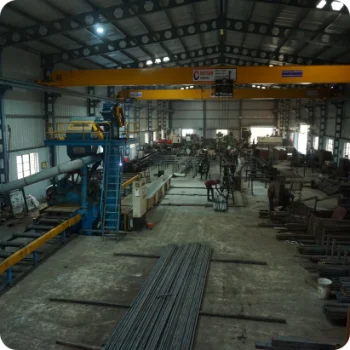
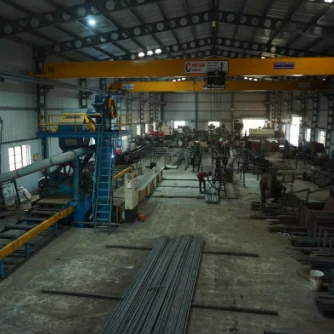
Redesign product cards with hover-reveal info, fix gallery image, cleanup
- Products: default state shows just the photo with a small label; on
  hover, a dark overlay animates in with title and description
- Fixed gallery-4.png, which had a real ~6px transparent rounded-corner
  mask baked into the source file (not a CSS issue) letting the page
  background show through as false rounded corners; cropped and
  flattened to a clean opaque image
- Removed the "Read More" button from product hover cards (the whole
  card is still clickable to open the product detail modal)

Claude-Session: https://claude.ai/code/session_01XpFtmn65KmeoX3C8v2XyBw

diff --git a/src/components/Products.tsx b/src/components/Products.tsx
@@ -1,5 +1,4 @@
 import { useState } from "react";
-import { ArrowUpRight } from "lucide-react";
 import { products } from "../data/content";
 import ProductModal from "./ProductModal";
 
@@ -7,49 +6,47 @@ export default function Products() {
   const [active, setActive] = useState<(typeof products)[number] | null>(null);
 
   return (
-    <section id="products" className="bg-white pt-16 sm:pt-20 lg:pt-28 pb-16 sm:pb-20 lg:pb-28">
+    <section id="products" className="bg-[#14181C] pt-16 sm:pt-20 lg:pt-28 pb-16 sm:pb-20 lg:pb-28">
       <div className="max-w-[1440px] mx-auto relative">
         <div className="text-center mb-10 sm:mb-14 lg:mb-16">
           <h2
-            className="font-bold leading-[1.05] tracking-tight text-gray-900"
+            className="font-bold leading-[1.05] tracking-tight text-white"
             style={{ fontSize: "clamp(2rem, 5vw, 3.5rem)" }}
           >
             Featured Products
           </h2>
-          <span className="inline-block w-14 h-[3px] bg-[#2F6F7E] mt-5" />
+          <span className="inline-block w-14 h-[3px] bg-[#4FA8B8] mt-5" />
         </div>
 
-        <div className="grid grid-cols-1 sm:grid-cols-2 lg:grid-cols-3 gap-6 sm:gap-7 px-5 sm:px-8 lg:px-12 relative">
-          {products.map((p, i) => (
+        <div className="grid grid-cols-1 sm:grid-cols-2 lg:grid-cols-4 gap-4 sm:gap-5 px-5 sm:px-8 lg:px-12 relative">
+          {products.map((p) => (
             <div
               key={p.title}
-              className="group bg-[#EAF1F1]  overflow-hidden cursor-pointer"
               onClick={() => setActive(p)}
+              className="group relative aspect-[3/4] overflow-hidden cursor-pointer bg-gray-900"
             >
-              <div className="relative aspect-[4/3] overflow-hidden bg-gray-200">
-                <img
-                  src={p.image}
-                  alt={p.title}
-                  className="w-full h-full object-cover transition-transform duration-700 group-hover:scale-105"
-                />
-                <span className="absolute top-3 left-3 bg-white text-gray-900 text-[11px] font-bold px-2 py-1 ">
-                  {String(i + 1).padStart(2, "0")}
-                </span>
-              </div>
-              <div className="p-5 sm:p-6">
-                <p className="text-[17px] sm:text-lg font-bold text-gray-900 leading-tight">
+              <img
+                src={p.image}
+                alt={p.title}
+                className="absolute inset-0 w-full h-full object-cover transition-transform duration-700 group-hover:scale-105"
+              />
+
+              {/* Default label, hidden on hover */}
+              <div className="absolute bottom-4 left-4 bg-[#14181C]/90 px-4 py-2.5 transition-opacity duration-300 group-hover:opacity-0">
+                <p className="text-white text-[12px] sm:text-[13px] font-bold uppercase tracking-wide leading-tight">
                   {p.title}
                 </p>
-                <p className="text-[13px] sm:text-sm text-gray-600 mt-2 leading-relaxed line-clamp-2">
+              </div>
+
+              {/* Hover overlay with full info */}
+              <div className="absolute inset-0 bg-[#14181C]/0 group-hover:bg-[#14181C]/90 transition-colors duration-300" />
+              <div className="absolute inset-0 flex flex-col items-center justify-center text-center p-5 sm:p-6 opacity-0 translate-y-3 group-hover:opacity-100 group-hover:translate-y-0 transition-all duration-300">
+                <p className="text-white text-[13px] sm:text-[14px] font-bold uppercase tracking-[0.1em] mb-3">
+                  {p.title}
+                </p>
+                <p className="text-white/75 text-[12px] sm:text-[13px] leading-relaxed line-clamp-6">
                   {p.description}
                 </p>
-                <div className="mt-4 inline-flex items-center gap-1.5 text-[#2F6F7E] text-xs sm:text-sm font-bold">
-                  View Product
-                  <ArrowUpRight
-                    size={14}
-                    className="transition-transform duration-300 group-hover:translate-x-0.5 group-hover:-translate-y-0.5"
-                  />
-                </div>
               </div>
             </div>
           ))}
